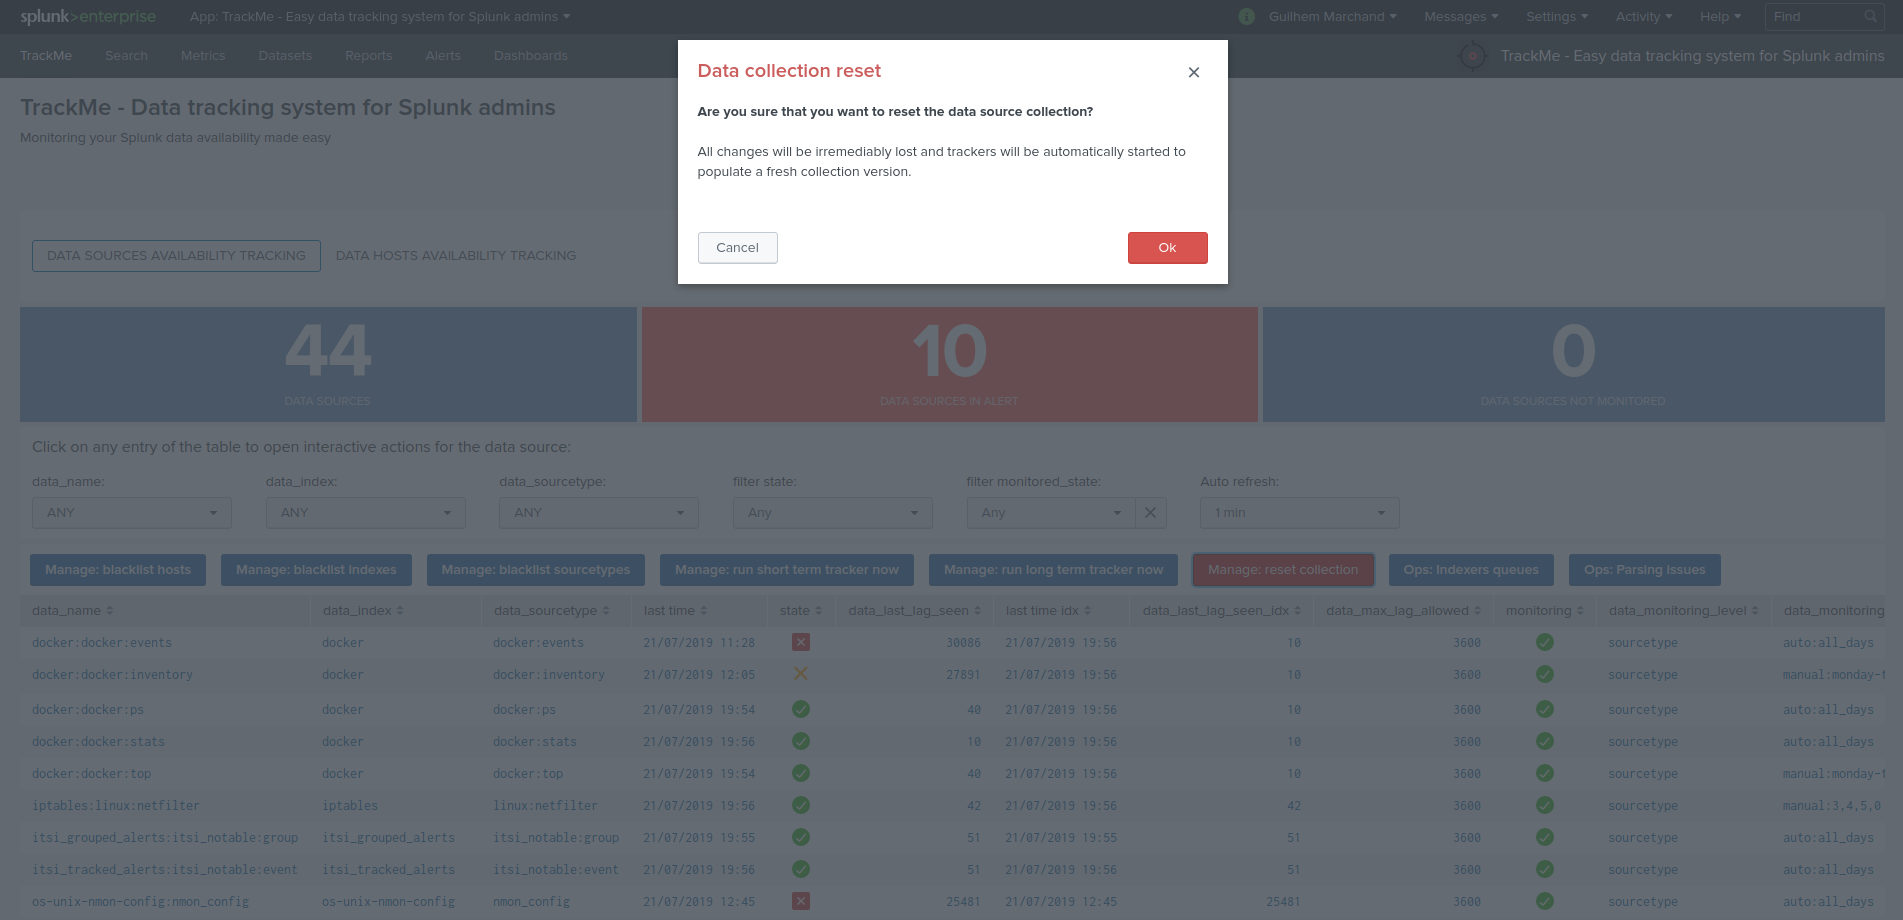
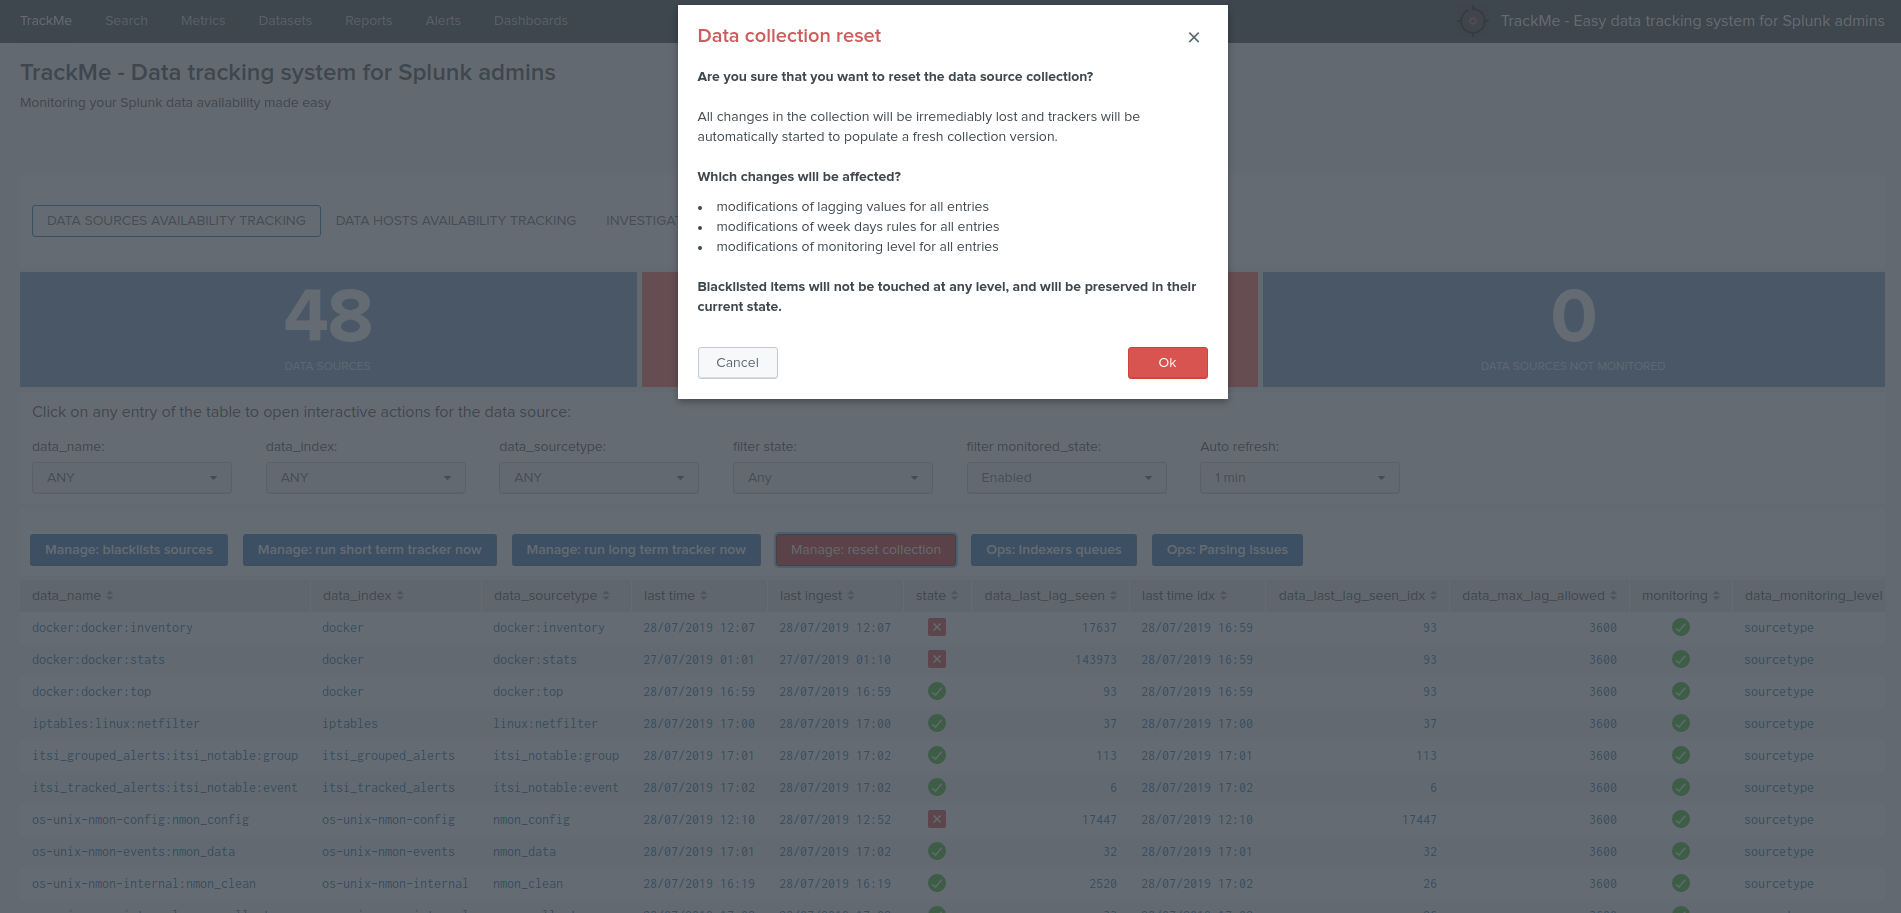
Documentation update

diff --git a/docs/userguide.rst b/docs/userguide.rst
@@ -45,6 +45,7 @@ The data sources state table exposes the information and the state of each data 
 - **data_index:** the name of the index where resides the data
 - **data_sourcetype:** the name of the sourcetype
 - **last time:** a human readable value of the latest time data was seen for this data source (respectively from limitations of the short and long term trackers time range scopes)
+- **last ingest:** a human readable value of the latest time data was indexed for this data source (respectively from limitations of the short and long term trackers time range scopes)
 - **state:** the state of the data source based on the monitoring rules for this data source
 - **data_last_lag_seen:** the latest lag value in seconds seen for that data source
 - **data_last_seen_index:** a human readable value of the latest time data was seen in this index (can be used to monitor on a per index basis rather than on a per sourcetype basis)
@@ -53,6 +54,16 @@ The data sources state table exposes the information and the state of each data 
 - **monitoring:** the monitoring state of this data source, can be enabled or disabled
 - **data_monitoring_level:** defines the criteria level of the data source monitoring, valid values are sourcetype (default) or index
 - **data_monitoring_wdays:** defines the week days monitoring rule for the data source, different values are possible and exposed further in this documentation
+
+**Trackers:**
+
+The update of the data source monitoring collection is driven by the execution of the data source scheduled tracker reports:
+
+- TrackMe - Data sources availability short term tracker, runs every 5 minutes over the last 4 hours
+- TrackMe - Data sources availability short term tracker, runs every hour over the last 7 days
+
+Both tracker reports rely on extremely fast and cost less tstats queries.
+Even on very large environments, the tracker's run time and running costs are very limited.
 
 Data hosts availability tracking
 ================================
@@ -77,11 +88,22 @@ The data hosts state table exposes the information and the state of each data ho
 - **data_index:** the name of the index(es) where resides the data
 - **data_sourcetype:** the name of the sourcetype(s)
 - **last time:** a human readable value of the latest time data was seen for this data source (respectively from limitations of the short and long term trackers time range scopes)
+- **last ingest:** a human readable value of the latest time data was indexed for this data source (respectively from limitations of the short and long term trackers time range scopes)
 - **state:** the state of the data source based on the monitoring rules for this data source
 - **data_last_lag_seen:** the latest lag value in seconds seen for that data source
 - **data_max_lag_allowed:** the maximal value of lag accepted for this data source
 - **monitoring:** the monitoring state of this data source, can be enabled or disabled
 - **data_monitoring_wdays:** defines the week days monitoring rule for the data source, different values are possible and exposed further in this documentation
+
+**Trackers:**
+
+The update of the data source monitoring collection is driven by the execution of the data source scheduled tracker reports:
+
+- TrackMe - Data hosts availability short term tracker, runs every 5 minutes over the last 4 hours
+- TrackMe - Data hosts availability short term tracker, runs every hour over the last 7 days
+
+Both tracker reports rely on extremely fast and cost less tstats queries.
+Even on very large environments, the tracker's run time and running costs are very limited.
 
 Interactive drilldown and administration of objects
 ===================================================
@@ -257,8 +279,8 @@ Manual run of the trackers
    :alt: run_tracker.png
    :align: center
 
-Reset the collection to factory default
-=======================================
+Reset the collection to factory defaults
+========================================
 
 **This danger button allows to you to perform a flush and fill operation of the KVstore collection, that is shipping out the current content and running a fresh tracker report:**
 
@@ -275,3 +297,44 @@ Reset the collection to factory default
 .. image:: img/reset2.png
    :alt: reset2.png
    :align: center
+
+Deletion of entities
+====================
+
+**You can delete a data source or a data host that was discovered automatically by using the builtin delete function:**
+
+.. image:: img/delete1.png
+   :alt: delete1.png
+   :align: center
+
+**Two options are available:**
+
+.. image:: img/delete2.png
+   :alt: delete2.png
+   :align: center
+
+- When the data source or host is temporary removed, it will be automatically re-created if it has been active during the time range scope of the trackers.
+- When the data source or host is permanently removed, a record of the operation is stored in the audit changes KVstore collection, which we automatically use to prevent the source from being re-created effectively.
+
+Auditing changes
+================
+
+**Every action that involves a modification of an object via the UI is stored in a KVstore collection to be used for auditing and investigation purposes:**
+
+.. image:: img/auditing1.png
+   :alt: auditing1.png
+   :align: center
+
+Different information related to the change performed are stored in the collection, such as the user that performed the change, the type of object, the existing state before the change is performed, and so forth.
+
+**In addition, each audit change record has a time stamp information stored, which we use to purge old records automatically, via the scheduled report:**
+
+- TrackMe - Audit changes night purge
+
+The purge is performed in a daily fashion executed during the night, by default every record older than 90 days will be purged.
+
+**You can customize this value using the following macro definition:**
+
+- trackme_audit_changes_retention
+
+Finally, the auditing change collection is automatically used by the trackers reports when a permanent deletion of an object has been requested.
